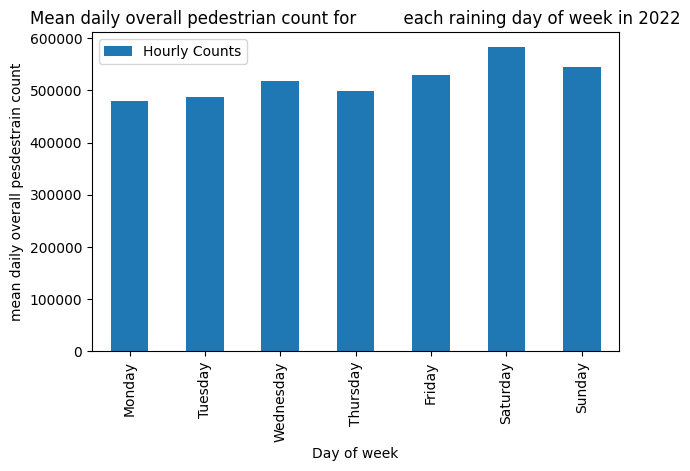
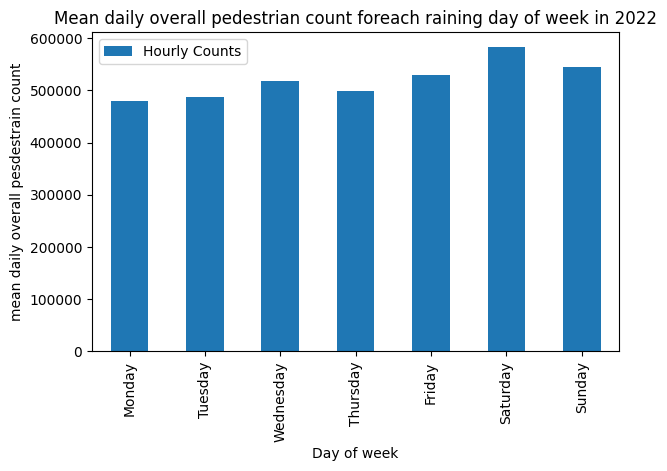
complete test cases

diff --git a/.history/solution_20220704205931.py b/.history/solution_20220704205931.py
@@ -228,8 +228,8 @@ def pedestrian_hist_rain(dataframe, year1, year2):
 
     df2 = daily_count(df2)
 
-    title2 = "Mean daily overall pedestrian count for" + \
-        "each raining day of week in " + str(year2)
+    title2 = "Mean daily overall pedestrian count for \
+        each raining day of week in " + str(year2)
     file2 = str(year2) + "_busy_daily_rain.png"
     bar_with_title(df2, title2, "Day of week",
                    "mean daily overall pesdestrain count", file2)
@@ -637,22 +637,22 @@ def invest_covid_travel(dataframe, file1, file2):
     time_series_for_two(
         monthly_overall, "Arrival", "Hourly_Counts",
         'Internation arrival monthly', 'Daily pedestrian count',
-        "Time serie data for monthly " + \
-        "internation arrival and average pedestrian count")
+        "Time serie data for monthly \
+        internation arrival and average pedestrian count")
 
     # plot and save covid-19 vs pedestrian
     time_series_for_two(monthly_overall[
         pd.to_datetime(monthly_overall.Date_Time) < '2021-09-01'],
         "VIC", "Hourly_Counts", 'Average daily covid-19 cases',
         'Average daily pedestrian count',
-        "Time serie data for monthly covid-19 cases and " + \
-        "average pedestrian count before September 2021", '1')
+        "Time serie data for monthly covid-19 cases and \
+            average pedestrian count before September 2021", '1')
     time_series_for_two(monthly_overall[
         pd.to_datetime(monthly_overall.Date_Time) >= '2021-09-01'],
         "VIC", "Hourly_Counts", 'Average daily covid-19 cases',
         'Average daily pedestrian count',
-        "Time serie data for monthly covid-19 cases and " + \
-        "average pedestrian count before September 2021", '2')
+        "Time serie data for monthly covid-19 cases and \
+        average pedestrian count before September 2021", '2')
 
 
 def invest_lockdown(dataframe):
@@ -725,7 +725,7 @@ def invest_lockdown(dataframe):
 
     df_time_series.plot(
         x="Date_Time", y="Hourly_Counts",
-        title="Covid-19 cases versus pedestrian " + \
-        "(Red = Victoria under lockdown)", figsize=(12, 5))
+        title="Covid-19 cases versus pedestrian \
+        (Red = Victoria under lockdown)", figsize=(12, 5))
 
     plt.savefig("lockdown_impace_time_series.png", bbox_inches='tight')

diff --git a/.history/solution_20220704205947.py b/.history/solution_20220704205947.py
@@ -637,22 +637,22 @@ def invest_covid_travel(dataframe, file1, file2):
     time_series_for_two(
         monthly_overall, "Arrival", "Hourly_Counts",
         'Internation arrival monthly', 'Daily pedestrian count',
-        "Time serie data for monthly " + \
-        "internation arrival and average pedestrian count")
+        "Time serie data for monthly \
+        internation arrival and average pedestrian count")
 
     # plot and save covid-19 vs pedestrian
     time_series_for_two(monthly_overall[
         pd.to_datetime(monthly_overall.Date_Time) < '2021-09-01'],
         "VIC", "Hourly_Counts", 'Average daily covid-19 cases',
         'Average daily pedestrian count',
-        "Time serie data for monthly covid-19 cases and " + \
-        "average pedestrian count before September 2021", '1')
+        "Time serie data for monthly covid-19 cases and \
+            average pedestrian count before September 2021", '1')
     time_series_for_two(monthly_overall[
         pd.to_datetime(monthly_overall.Date_Time) >= '2021-09-01'],
         "VIC", "Hourly_Counts", 'Average daily covid-19 cases',
         'Average daily pedestrian count',
-        "Time serie data for monthly covid-19 cases and " + \
-        "average pedestrian count before September 2021", '2')
+        "Time serie data for monthly covid-19 cases and \
+        average pedestrian count before September 2021", '2')
 
 
 def invest_lockdown(dataframe):
@@ -725,7 +725,7 @@ def invest_lockdown(dataframe):
 
     df_time_series.plot(
         x="Date_Time", y="Hourly_Counts",
-        title="Covid-19 cases versus pedestrian " + \
-        "(Red = Victoria under lockdown)", figsize=(12, 5))
+        title="Covid-19 cases versus pedestrian \
+        (Red = Victoria under lockdown)", figsize=(12, 5))
 
     plt.savefig("lockdown_impace_time_series.png", bbox_inches='tight')

diff --git a/.history/solution_20220704210008.py b/.history/solution_20220704210008.py
@@ -645,14 +645,14 @@ def invest_covid_travel(dataframe, file1, file2):
         pd.to_datetime(monthly_overall.Date_Time) < '2021-09-01'],
         "VIC", "Hourly_Counts", 'Average daily covid-19 cases',
         'Average daily pedestrian count',
-        "Time serie data for monthly covid-19 cases and " + \
-        "average pedestrian count before September 2021", '1')
+        "Time serie data for monthly covid-19 cases and \
+            average pedestrian count before September 2021", '1')
     time_series_for_two(monthly_overall[
         pd.to_datetime(monthly_overall.Date_Time) >= '2021-09-01'],
         "VIC", "Hourly_Counts", 'Average daily covid-19 cases',
         'Average daily pedestrian count',
-        "Time serie data for monthly covid-19 cases and " + \
-        "average pedestrian count before September 2021", '2')
+        "Time serie data for monthly covid-19 cases and \
+        average pedestrian count before September 2021", '2')
 
 
 def invest_lockdown(dataframe):
@@ -725,7 +725,7 @@ def invest_lockdown(dataframe):
 
     df_time_series.plot(
         x="Date_Time", y="Hourly_Counts",
-        title="Covid-19 cases versus pedestrian " + \
-        "(Red = Victoria under lockdown)", figsize=(12, 5))
+        title="Covid-19 cases versus pedestrian \
+        (Red = Victoria under lockdown)", figsize=(12, 5))
 
     plt.savefig("lockdown_impace_time_series.png", bbox_inches='tight')

diff --git a/.history/solution_20220704210042.py b/.history/solution_20220704210042.py
@@ -651,8 +651,8 @@ def invest_covid_travel(dataframe, file1, file2):
         pd.to_datetime(monthly_overall.Date_Time) >= '2021-09-01'],
         "VIC", "Hourly_Counts", 'Average daily covid-19 cases',
         'Average daily pedestrian count',
-        "Time serie data for monthly covid-19 cases and " + \
-        "average pedestrian count before September 2021", '2')
+        "Time serie data for monthly covid-19 cases and \
+        average pedestrian count before September 2021", '2')
 
 
 def invest_lockdown(dataframe):
@@ -725,7 +725,7 @@ def invest_lockdown(dataframe):
 
     df_time_series.plot(
         x="Date_Time", y="Hourly_Counts",
-        title="Covid-19 cases versus pedestrian " + \
-        "(Red = Victoria under lockdown)", figsize=(12, 5))
+        title="Covid-19 cases versus pedestrian \
+        (Red = Victoria under lockdown)", figsize=(12, 5))
 
     plt.savefig("lockdown_impace_time_series.png", bbox_inches='tight')

diff --git a/.history/solution_20220704210049.py b/.history/solution_20220704210049.py
@@ -725,7 +725,7 @@ def invest_lockdown(dataframe):
 
     df_time_series.plot(
         x="Date_Time", y="Hourly_Counts",
-        title="Covid-19 cases versus pedestrian " + \
-        "(Red = Victoria under lockdown)", figsize=(12, 5))
+        title="Covid-19 cases versus pedestrian \
+        (Red = Victoria under lockdown)", figsize=(12, 5))
 
     plt.savefig("lockdown_impace_time_series.png", bbox_inches='tight')
